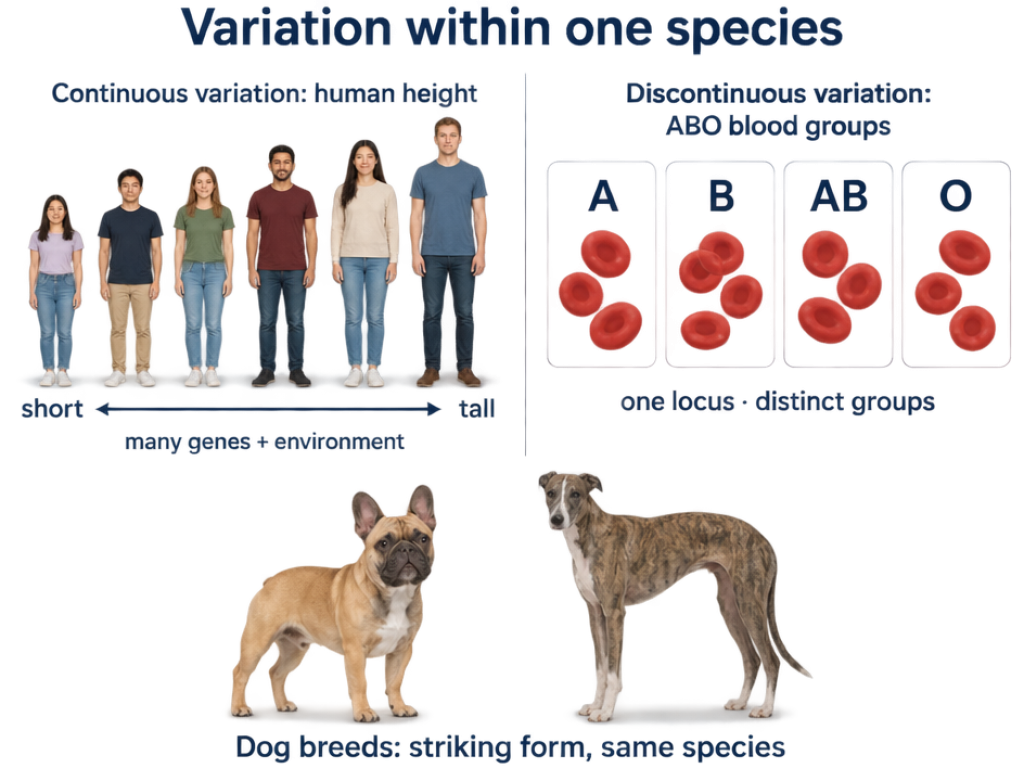
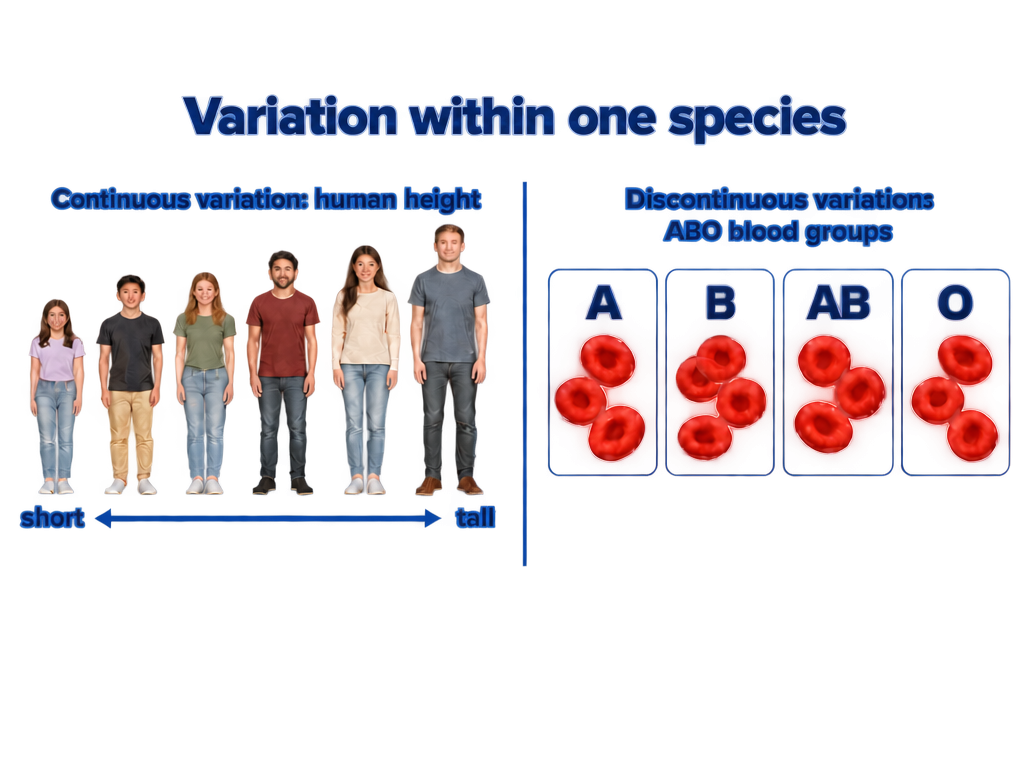
Update A3.1 figures and lesson explanations

diff --git a/src/syllabus.js b/src/syllabus.js
@@ -13,7 +13,7 @@ const box = (x,y,w,h,fill='#e8f1ec',stroke='#b7d2c2',r=18) => `<rect x="${x}" y=
 const line = (x1,y1,x2,y2) => `<path d="M${x1} ${y1}L${x2} ${y2}" fill="none" stroke="#17856c" stroke-width="4" marker-end="url(#arrow)"/>`;
 
 export const DIAGRAMS = {
-  variation: svg('Continuous and discontinuous variation', 'Continuous human height forms a range; ABO groups form discrete classes. Dog breeds vary greatly in form while remaining one species.',
+  variation: svg('Continuous and discontinuous variation', 'Human height forms a continuous range; ABO blood groups are discontinuous classes. Dog breeds show striking inherited variation within one species.',
     `${text(45,48,'VARIATION WITHIN ONE SPECIES',20,700,'#17856c')}${box(35,70,400,320)}${text(65,112,'Continuous · human height',25,700)}${text(65,148,'many genes + environment',20)}<path d="M70 310 C120 306 145 277 190 245 C230 216 278 212 320 245 C358 275 380 306 405 310" fill="none" stroke="#17856c" stroke-width="7"/><path d="M70 315H405" stroke="#9baba2" stroke-width="2"/>${text(85,356,'short',18)}${text(340,356,'tall',18)}${box(465,70,400,320)}${text(495,112,'Discontinuous · ABO',25,700)}${text(495,148,'one locus · distinct groups',20)}${['A','B','AB','O'].map((a,i)=>`<rect x="${500+i*82}" y="220" width="60" height="80" rx="10" fill="url(#leaf)"/>${text(520+i*82,270,a,24,700)}`).join('')}${text(490,350,'dog breeds: striking form, same species',19,700)}`),
   morphology: svg('Morphological species concept and limitations', 'Shared structural traits can aid identification. Sexual dimorphism, cryptic species, phenotypic plasticity and convergent evolution can make appearance misleading.',
     `${box(28,42,844,100,'#e8f1ec')}${text(55,84,'Linnaeus: group organisms by shared structural traits',24,700)}${text(55,119,'Useful for fossils · field identification · asexual organisms',20)}${[['Sexual dimorphism','males and females differ'],['Cryptic species','distinct lineages; similar form'],['Plasticity','environment alters phenotype'],['Convergence','unrelated lineages; similar form']].map((a,i)=>{const x=30+(i%2)*425,y=170+Math.floor(i/2)*112;return `${box(x,y,405,90,'#fff','#cbdcd0')}${text(x+18,y+34,a[0],22,700)}${text(x+18,y+67,a[1],18)}`}).join('')}${text(54,410,'Appearance is evidence—not a universal species boundary.',19,700,'#7b5130')}`),
@@ -23,21 +23,40 @@ export const DIAGRAMS = {
     `${['Gene flow','Barrier','Divergence','Isolation'].map((a,i)=>{const x=30+i*220;return `${box(x,72,180,92,i===3?'#f7e7df':'#e8f1ec')}${text(x+16,112,a,22,700)}${text(x+16,145,['shared alleles','flow reduced','differences build','separate species'][i],16)}`}).join('')}${[210,430,650].map(x=>line(x,118,x+25,118)).join('')}${text(45,235,'RING SPECIES · populations around a geographic barrier',21,700,'#17856c')}<path d="M210 330 C260 270 370 265 440 320 C510 375 620 360 675 300" fill="none" stroke="#78c75b" stroke-width="17" stroke-linecap="round"/><path d="M210 330 C150 380 95 365 80 325" fill="none" stroke="#17856c" stroke-width="17" stroke-linecap="round"/><path d="M675 300 C735 250 790 265 810 310" fill="none" stroke="#17856c" stroke-width="17" stroke-linecap="round"/><circle cx="450" cy="330" r="90" fill="none" stroke="#cbdcd0" stroke-width="2" stroke-dasharray="7 9"/>${text(345,430,'Terminal populations may not interbreed',19,700)}`),
   chromosomes: svg('Chromosome arms and karyogram criteria', 'Karyograms pair chromosomes using length, centromere position and banding. Chromosome arms are p and q.',
     `${text(40,50,'CHROMOSOME ANATOMY',19,700,'#17856c')}<path d="M180 115 C120 155 125 205 180 245 C235 285 235 330 180 375 M235 115 C295 155 290 205 235 245 C180 285 180 330 235 375" fill="none" stroke="#78a66a" stroke-width="17" stroke-linecap="round"/><ellipse cx="208" cy="246" rx="21" ry="13" fill="#24483d"/>${text(130,103,'p',23,700)}${text(260,399,'q',23,700)}${text(105,226,'centromere',18)}${text(370,70,'CENTROMERE POSITIONS',19,700,'#17856c')}${['Metacentric','Submetacentric','Acrocentric'].map((a,i)=>{let x=385+i*160;let cy=170;let cx=x+55;let split=[.5,.68,.84][i];return `${text(x,115,a,17,700)}<path d="M${cx} ${cy-52}V${cy+52}" stroke="#78a66a" stroke-width="15" stroke-linecap="round"/><ellipse cx="${cx}" cy="${cy-52+104*split}" rx="18" ry="8" fill="#24483d"/>`}).join('')}${box(360,260,500,125,'#fff','#cbdcd0')}${text(382,300,'Karyogram matching',22,700)}${text(382,337,'1 · length  2 · centromere  3 · G-bands',20)}${text(382,368,'Diploid 2n = two sets; haploid n = one set',18)}`),
-  fusion: svg('Evidence for human chromosome 2 fusion', 'Human chromosome 2 corresponds to chimpanzee chromosomes 12 and 13 arranged end-to-end. Internal telomere repeats and a vestigial centromere support the fusion hypothesis.',
+  fusion: svg('Shared primate ancestor: chromosome-2 fusion evidence', 'Banding correspondences link chimpanzee chromosomes 12 and 13 with human chromosome 2. Internal telomeric repeats and an inactive centromere remnant support an end-to-end fusion in the human lineage.',
     `${text(40,55,'SHARED PRIMATE ANCESTOR',20,700,'#17856c')}${box(65,90,300,95)}${text(95,132,'chr 12',28,700)}${text(230,132,'chr 13',28,700)}${line(370,137,465,137)}${box(495,90,340,95,'#e7f1dc','#b3ca8f')}${text(535,132,'HUMAN chr 2',26,700)}${text(50,238,'Banding patterns align end-to-end',21,700)}<path d="M90 295H810" stroke="#78a66a" stroke-width="22" stroke-linecap="round"/><rect x="427" y="278" width="11" height="34" rx="5" fill="#bb5346"/><ellipse cx="610" cy="295" rx="20" ry="13" fill="#34444e"/><text x="394" y="350" font-size="19" fill="#24483d">2q13 · inverted TTAGGG repeats</text><text x="580" y="390" font-size="19" fill="#24483d">2q21 · vestigial centromere</text>${text(60,415,'Predicted markers support a testable, falsifiable hypothesis.',18,700)}`),
   snp: svg('SNP, indel and heterozygous Sanger peaks', 'A SNP is a common single-base variant; an indel inserts or deletes bases. Two Sanger peaks at one site can indicate heterozygosity in one diploid sample.',
     `${text(38,55,'SHARED GENOME · VARIABLE SITES',20,700,'#17856c')}${box(30,80,400,145)}${text(55,120,'Reference',19,700)}${text(55,166,'A C G T A C G T A C',24,700)}${text(55,207,'A C G/A T A C G T/C A C',22,700,'#a24a3a')}${box(470,80,400,145,'#fff','#cbdcd0')}${text(495,120,'Variant types',22,700)}${text(495,164,'SNP: one base differs',20)}${text(495,201,'Indel: base(s) inserted/deleted',20)}${text(40,275,'SANGER TRACE · overlapping peaks can indicate two alleles',20,700,'#17856c')}<path d="M60 390H840" stroke="#9baaa2" stroke-width="2"/><path d="M110 390 Q130 380 145 310 Q160 230 175 390 M280 390 Q300 380 315 290 Q330 240 345 390 M460 390 Q480 385 495 290 Q510 230 525 390 M495 390 Q515 380 530 300 Q545 255 560 390 M700 390 Q720 380 735 290 Q750 230 765 390 M735 390 Q755 380 770 300 Q785 250 800 390" fill="none" stroke="#17856c" stroke-width="5"/>${text(465,425,'G/A',18,700)}${text(705,425,'T/C',18,700)}${text(45,425,'Population frequency—not one chromatogram—defines an SNP',18)}`),
   genome: svg('Genome size variation and C-value paradox', 'Genome sizes vary greatly and do not directly measure gene number or organismal complexity. Repeats, transposons, polyploidy and introns can increase DNA content.', `${text(35,48,'GENOME SIZE (Mbp) · LOGARITHMIC COMPARISON',20,700,'#17856c')}${[['Saccharomyces cerevisiae',12],['Arabidopsis thaliana',135],['Drosophila melanogaster',140],['Homo sapiens',3200],['Paris japonica',149000],['Amoeba proteus',290000]].map((a,i)=>{let y=88+i*42,w=Math.log10(a[1]+1)*58;return `${text(24,y+21,a[0],18,600)}<rect x="340" y="${y}" width="${w}" height="25" rx="8" fill="url(#leaf)"/>${text(352+w,y+20,`${a[1].toLocaleString()} Mbp`,17,700)}`}).join('')}${text(40,382,'C-value paradox: DNA amount ≠ gene number ≠ organismal complexity',20,700,'#7b5130')}${text(40,415,'Repeats, transposons, introns and polyploidy can expand genomes.',18)}`),
-  sequencing: svg('Whole genome sequencing and applications', 'Whole-genome sequencing determines DNA sequence across a genome. Comparisons support evolutionary research; personalized medicine is a potential application.',
+  sequencing: svg('Whole-genome sequencing: speed, cost and applications', 'Sequencing methods have become generally faster and less costly. Whole-genome comparisons support evolutionary relationships and outbreak tracing; precision medicine is an application area.',
     `${text(35,48,'SEQUENCING · SPEED INCREASES, COST DECREASES',20,700,'#17856c')}${line(145,165,750,165)}${[['1990s','Early genomes','slow · costly'],['Later','Faster sequencing','lower cost'],['Current','More genomes','broader comparisons']].map((a,i)=>{let x=95+i*300;return `<circle cx="${x+45}" cy="165" r="14" fill="#17856c"/>${box(x,205,220,115)}${text(x+16,245,a[0],19,700)}${text(x+16,280,a[1],21)}${text(x+16,305,a[2],16)}`}).join('')}${['Evolutionary relationships','Outbreak tracing','Personalized medicine*'].map((a,i)=>`${box(45+i*280,355,250,55,'#e7f1dc','#b3ca8f')}${text(60+i*280,390,a,18,700)}`).join('')}${text(50,430,'*Potential future application',16)}`),
   hgt: svg('Binary fission and horizontal gene transfer', 'Binary fission produces lineages through vertical inheritance. Conjugation, transformation and transduction transfer DNA across lineages, creating a reticulate history.',
     `${text(35,48,'VERTICAL INHERITANCE + CROSS-LINEAGE TRANSFER',20,700,'#17856c')}${box(40,100,165,90)}${text(65,148,'cell 1',23,700)}${line(210,145,270,145)}${box(285,85,120,65,'#e7f1dc')}${box(285,155,120,65,'#e7f1dc')}${text(282,255,'Binary fission',20,700)}${text(465,100,'HORIZONTAL TRANSFER ROUTES',19,700,'#17856c')}${[['Conjugation','cell contact'],['Transformation','environmental DNA'],['Transduction','phage vector']].map((a,i)=>`${box(465,125+i*78,185,60)}${text(480,153+i*78,a[0],18,700)}${text(480,177+i*78,a[1],14)}`).join('')}${box(705,180,160,100,'#f7e7df','#dfb7a6')}${text(720,220,'R plasmid',20,700)}${text(720,252,'resistance',18)}${line(655,155,705,205)}${line(655,235,705,230)}${line(655,310,705,250)}${text(55,355,'Vertical inheritance branches',18,600)}<path d="M80 375 C200 420 280 420 345 360 M95 373 C200 400 260 390 345 360 M520 380 C620 415 750 355 790 290" fill="none" stroke="#17856c" stroke-width="4" stroke-dasharray="8 7"/>${text(455,420,'HGT links branches → reticulate network',19,700)}`),
   mule: svg('Horse donkey and mule chromosome pairing', 'Horse gametes contribute 32 chromosomes and donkey gametes contribute 31. The mule has 63 chromosomes; unmatched homologues disrupt meiosis and usually cause sterility.',
     `${[['Horse','2n = 64','n = 32'],['Donkey','2n = 62','n = 31']].map((a,i)=>`${box(35+i*250,75,210,105)}${text(60+i*250,112,a[0],24,700)}${text(60+i*250,145,a[1],20)}${text(60+i*250,170,a[2],18)}`).join('')}${line(480,128,555,128)}${box(575,75,260,105,'#f7e7df','#dfb7a6')}${text(605,114,'Mule',25,700)}${text(605,149,'2n = 63 · hybrid',20)}${text(45,245,'MEIOSIS I · homologues should pair as bivalents',20,700,'#17856c')}${Array.from({length:8},(_,i)=>{let x=75+i*92;return `<path d="M${x} 300v70 M${x+14} 300v70" stroke="#78a66a" stroke-width="8" stroke-linecap="round"/>${i===5?`<path d="M${x+35} 300v70" stroke="#bd5849" stroke-width="8" stroke-dasharray="8 7"/>`:''}`}).join('')}${text(55,410,'Mismatched homologues → unstable pairing → disrupted meiosis',18,700)}`),
-  key: svg('Dichotomous key decision structure', 'A dichotomous key uses numbered pairs of mutually exclusive, observable choices. Each branch continues to another couplet or names an organism.',
+  key: svg('Dichotomous key: observable paired traits', 'A dichotomous key uses pairs of mutually exclusive choices based on observable, specific traits. Each choice leads to another couplet or an identification; uncertain evidence should remain inconclusive.',
     `${box(280,35,340,70,'#e8f1ec')}${text(310,78,'OBSERVABLE TRAIT?',23,700)}${line(370,110,230,175)}${line(530,110,670,175)}${box(40,180,350,75,'#fff')}${text(62,224,'Dark X mark + <2.5 cm?',21,700)}${box(510,180,350,75,'#fff')}${text(532,224,'Olive granular skin + >4 cm?',20,700)}${line(195,258,160,325)}${line(300,258,355,325)}${line(665,258,610,325)}${line(745,258,790,325)}${[['Liuixalus romeri',45],['Check another clue',245],['Amolops hongkongensis',460],['Check another clue',680]].map(a=>`${box(a[1],330,190,65,'#e7f1dc','#b3ca8f')}${text(a[1]+10,370,a[0],16,700)}`).join('')}${text(110,425,'Two exclusive choices at each step; test every specimen.',17,700)}`),
   barcode: svg('DNA barcodes and environmental DNA workflow', 'Short DNA barcode sequences are matched to references. Environmental DNA from a habitat is collected, filtered, amplified and identified using a database.',
     `${text(35,52,'STANDARD BARCODE LOCI',20,700,'#17856c')}${[['Animals','mitochondrial COI'],['Plants','chloroplast rbcL · matK'],['Fungi','nuclear ITS']].map((a,i)=>`${box(35+i*285,75,260,78)}${text(55+i*285,108,a[0],21,700)}${text(55+i*285,138,a[1],17)}`).join('')}${text(35,210,'eDNA · SAMPLE → FILTER → AMPLIFY → IDENTIFY',20,700,'#17856c')}${['Sample water','Filter traces','PCR barcode','Database match'].map((a,i)=>{let x=30+i*220;return `${box(x,245,190,95,i===3?'#e7f1dc':'#fff')}${text(x+14,285,a,18,700)}${text(x+14,317,['shed cells/mucus','capture DNA','COI / marker','reference library'][i],15)}`}).join('')}${[220,440,660].map(x=>line(x,292,x+14,292)).join('')}${text(40,390,'DNA detection supports presence—not abundance at a precise site.',18,700)}`),
+};
+
+export const DIAGRAM_IMAGES = {
+  variation: {
+    src: 'assets/study-guide/variation-within-species-examples.png',
+    alt: 'Study-guide figure showing continuous human-height variation, discontinuous ABO blood groups, and variation among dog breeds within one species.',
+  },
+  fusion: {
+    src: 'assets/study-guide/shared-primate-ancestor-chromosomes.png',
+    alt: 'Study-guide comparison of chimpanzee chromosome 12 and 13 banding with human chromosome 2, including the active centromere, internal telomeric repeats and vestigial centromere.',
+  },
+  sequencing: {
+    src: 'assets/study-guide/sequencing-speed-cost-applications.png',
+    alt: 'Study-guide illustration of whole-genome, short-read and long-read sequencing, showing generally faster and less costly sequencing over time and applications in evolutionary research, outbreak tracing and precision medicine.',
+  },
+  key: {
+    src: 'assets/study-guide/frog-observable-traits-key.png',
+    alt: 'Study-guide frog comparison for a dichotomous key: a small frog with a dark X-shaped mark versus a larger frog with granular olive skin.',
+  },
 };
 
 const cite = (label) => `<a class="slide-cite" href="assets/SLIDE_TEXT_INDEX.md" target="_blank" rel="noopener">${label} · slide text ↗</a>`;
@@ -46,9 +65,9 @@ const note = (heading, points, source) => ({heading, copy: points, source});
 export const SYLLABUS_MODULES = [
   {id:'module-1', title:'Variation, species concepts & scientific names', points:'A3.1.1–5 · A3.1.8', notes:[
     note('A3.1.1 · Variation within and between species',[
-      'No two individuals are identical in every trait. Variation underpins classification and naming.',
-      'Differences are generally greater between species than within one species; close relatives such as humans and chimpanzees differ less than distantly related organisms.',
-      'Extension: continuous traits form a range (for example, height); discontinuous traits fall into classes (for example, ABO groups). Genes and environment can both affect variation.'
+      'Variation is the difference in traits among individuals. Individuals of one species share many features but are not identical; variation provides evidence for describing and comparing organisms.',
+      'Differences are generally greater between species than within one species. Close relatives such as humans and chimpanzees share more features than distantly related organisms.',
+      'Continuous variation forms a range (for example, height); discontinuous variation falls into distinct classes (for example, ABO groups). Genes, environment and their interaction can influence phenotype; variation alone does not define a species.'
     ], 'Part 1 · printed pp. 105, 107; Part 2 · slides 2–6, 10–11'),
     note('A3.1.2 · Morphological species concept',[
       'Linnaeus grouped organisms by shared morphology: outward form and internal structure.',
@@ -85,9 +104,9 @@ export const SYLLABUS_MODULES = [
       'The centromere separates the short p arm from the long q arm. Position can be metacentric, submetacentric or acrocentric.'
     ], 'Part 1 · printed p. 106; Part 2 · slides 9–10'),
     note('A3.1.7 · Human chromosome 2 fusion hypothesis',[
-      'The hypothesis: two chromosomes in a shared primate ancestor fused end-to-end, producing human chromosome 2 and helping explain 46 human versus 48 chimpanzee chromosomes.',
-      'Older labels chimpanzee 2A/2B correspond to chimpanzee chromosomes 12/13. Evidence includes matching band patterns, internal telomeric repeats at 2q13 and a vestigial centromere at 2q21.',
-      'These predicted features support a testable hypothesis; evidence could weaken it if the expected homology or fusion markers were absent.'
+      'Humans have 46 chromosomes and chimpanzees 48. The hypothesis is that two ancestral chromosomes fused end-to-end in the lineage leading to humans, producing chromosome 2 after the lineages diverged.',
+      'Chimpanzee chromosomes 12 and 13 correspond to the two regions of human chromosome 2. Predicted evidence includes matching G-band order, internal telomeric repeats at 2q13 and an inactive centromere remnant at 2q21.',
+      'The chromosome count suggests a change but does not explain it by itself. Matching bands and the predicted internal markers provide independent tests of the fusion hypothesis.'
     ], 'Part 1 · printed pp. 106–107; Part 2 · slide 10'),
     note('A3.1.13 HL · Chromosome pairing and hybrid fertility',[
       'If parental chromosome numbers or structures differ, hybrid chromosomes may lack homologous partners. Pairing and segregation in meiosis can fail, making viable gametes less likely.',
@@ -105,8 +124,8 @@ export const SYLLABUS_MODULES = [
       'Compare genome size with organismal complexity. Explain why a larger DNA amount does not necessarily mean more genes or greater complexity; check whether each value refers to a haploid nuclear genome.'
     ], 'Part 1 · printed p. 108; database links below'),
     note('A3.1.11 · Whole-genome sequencing',[
-      'Whole-genome sequencing determines the DNA base sequence across a genome. Sequencing speed has increased while cost has fallen.',
-      'Current use: research into evolutionary relationships. Potential future use: personalized medicine, informed by a person’s genetic variants. Data require careful interpretation.'
+      'Whole-genome sequencing determines DNA base sequences across a genome. Methods have become generally faster and less costly, including short-read and long-read approaches.',
+      'Genome comparisons support research on evolutionary relationships and outbreak tracing. Precision or personalized medicine may use an individual’s variants, but sequence data require careful interpretation.'
     ], 'Part 1 · printed p. 108; Part 2 · slides 22–23, 26')
   ], diagrams:['genome','sequencing']},
   {id:'module-5', title:'Prokaryotic lineages & species identification keys', points:'A3.1.12 · A3.1.14 HL', notes:[
@@ -116,8 +135,8 @@ export const SYLLABUS_MODULES = [
       'Extension mechanisms: conjugation transfers DNA by cell contact; transformation takes up environmental DNA; transduction is mediated by bacteriophages.'
     ], 'Part 1 · printed p. 108; Part 2 · slides 25–29'),
     note('A3.1.14 HL · Construct a dichotomous key',[
-      'A key is a series of numbered couplets, each with two mutually exclusive alternatives. Use clear, observable and reliable features; each choice leads to another step or an identification.',
-      'Try it: choose several local plants or animals. Write the first pair of contrasting traits, split remaining specimens into new pairs, and test every specimen. Rewrite any couplet that is ambiguous or fails.'
+      'A dichotomous key is a series of numbered couplets, each with two mutually exclusive choices based on observable, specific and reliable traits. Each choice leads to another couplet or an identification.',
+      'Use contrasting, measurable features rather than vague impressions. Test every specimen; if a trait is hidden or the alternatives are ambiguous, record an inconclusive result and revise the couplet.'
     ], 'Part 1 · printed p. 109; Part 2 · slides 33–37'),
     note('Worked local example · frog key',[
       '<i>Liuixalus romeri</i> has a dark X-shaped dorsal mark, small adult size and toe pads. <i>Amolops hongkongensis</i> has granular olive skin; use several traits, not one impression.',

diff --git a/src/guide.js b/src/guide.js
@@ -12,13 +12,10 @@ export const STUDY_GUIDE = {
       ['Binomial nomenclature', '雙名法'],
     ],
     galleries: [{
-      title: 'Variation and genus-level relationships',
-      intro: 'These selected figures illustrate variation within one species and shared genus membership; appearance alone is not a species test.',
+      title: 'Variation within one species',
+      intro: 'One supplied figure contrasts continuous human-height variation with discontinuous ABO blood groups. Keep this distinction separate from differences between species.',
       figures: [
-        figure('variation-within-species.png', 'Infographic comparing continuous human-height variation, discrete ABO blood groups and variation among domestic dog breeds.', 'Continuous and discontinuous variation occur within species; dog-breed differences do not by themselves demonstrate reproductive isolation.', 'diagram'),
-        figure('peacock-display.jpg', 'A peacock displaying its iridescent train beside a peahen in grass.', 'Peacock and peahen appearance differs through sexual dimorphism, yet both belong to one species; visible differences alone do not define species boundaries.'),
-        figure('lion-savanna.jpg', 'A lion walking across an open, dry grassland habitat.', 'The lion is <i>Panthera leo</i>. The capitalized genus name is shared with tiger and jaguar species.'),
-        figure('tiger-profile.jpg', 'A tiger walking across a rocky surface.', 'The tiger is <i>Panthera tigris</i>, a different species in the genus <i>Panthera</i>; hybrid offspring do not automatically erase species boundaries.'),
+        figure('variation-within-species.png', 'Study-guide infographic comparing continuous human-height variation with discontinuous ABO blood groups.', 'Height forms a continuous range influenced by many genes and environment; ABO groups fall into distinct classes. Both are examples of variation within a species.', 'diagram'),
       ],
     }],
   },

diff --git a/src/main.js b/src/main.js
@@ -1,5 +1,5 @@
 import { FAUNA, FLASHCARDS, GENOME_DATA, IMAGE_CREDITS, IMAGES, QUIZ } from './data.js';
-import { DIAGRAMS, SYLLABUS_MODULES } from './syllabus.js';
+import { DIAGRAMS, DIAGRAM_IMAGES, SYLLABUS_MODULES } from './syllabus.js';
 import { STUDY_GUIDE } from './guide.js';
 
 const $ = (selector, root = document) => root.querySelector(selector);
@@ -535,7 +535,11 @@ function renderSyllabus() {
       if (!item) return '';
       const title = item.match(/<title>(.*?)<\/title>/)?.[1] ?? 'Biology diagram';
       const desc = item.match(/<desc>(.*?)<\/desc>/)?.[1] ?? '';
-      return `<figure class="diagram-card"><div class="diagram-scroll" tabindex="0" aria-label="Diagram viewport. On a narrow screen, scroll horizontally to inspect the full diagram.">${item}</div><figcaption><strong>${title}</strong><span>${desc}</span></figcaption></figure>`;
+      const supplied = DIAGRAM_IMAGES[key];
+      const visual = supplied
+        ? `<img class="diagram-image" src="${escapeHtml(supplied.src)}" alt="${escapeHtml(supplied.alt)}" loading="lazy" decoding="async">`
+        : `<div class="diagram-scroll" tabindex="0" aria-label="Diagram viewport. On a narrow screen, inspect the full diagram.">${item}</div>`;
+      return `<figure class="diagram-card">${visual}<figcaption><strong>${title}</strong><span>${desc}</span></figcaption></figure>`;
     }).join('')}</div>`;
     host.append(gallery);
   });

diff --git a/src/styles.css b/src/styles.css
@@ -188,6 +188,9 @@ body.dark-mode .database-task p,body.dark-mode .database-task li{color:#c0cbc4}
   .question-source{white-space:normal;overflow-wrap:anywhere}
 }
 
+/* Supplied study-guide figures retain their full aspect ratio inside the visual field-guide cards. */
+.diagram-card>.diagram-image{display:block;width:100%;height:auto;max-width:100%;max-height:70vh;object-fit:contain;object-position:center;margin:0 auto;background:#f7faf7;border-radius:12px}
+
 @media(max-width:1050px){
   .site-footer{flex-wrap:wrap}
   .site-footer p{flex-basis:100%;order:3;min-width:0}

diff --git a/assets/SOURCES.md b/assets/SOURCES.md
@@ -9,7 +9,7 @@ The four supplemental bird reference photos are from Wikimedia Commons; the bird
 - Spotted Dove — Shantanu Kuveskar, CC BY-SA 4.0. https://commons.wikimedia.org/wiki/File:Spotted_Dove_(Streptopelia_chinensis)_Photograph_by_Shantanu_Kuveskar.jpg
 - Red-whiskered Bulbul — Davidvraju, CC BY 4.0. https://commons.wikimedia.org/wiki/File:Red_whiskered_bulbul_-_1.jpg
 
-The 37 images in `study-guide/` were embedded in the user-provided Word study guide. `study-guide/asset-manifest.json` maps each extracted figure to its original embedded filename, document order and learning module. The Word file did not include per-image author or license information, so this project records the user-provided document as the source without asserting third-party authorship or a reuse license.
+The original 37 study-guide images were extracted from the earlier user-provided Word guide. The variation, chromosome-fusion, sequencing and frog-key figures requested in the latest update come from `IB-Biology-Diversity-of-Life-(A3.1).docx`; their original embedded filenames and learning modules are recorded in `study-guide/asset-manifest.json`. The Word files did not include per-image author or license information, so this project records the user-provided documents as the source without asserting third-party authorship or a reuse license.
 
 Protein-coding gene count sources and release notes: see `GENOME_COUNTS.md`.
 
